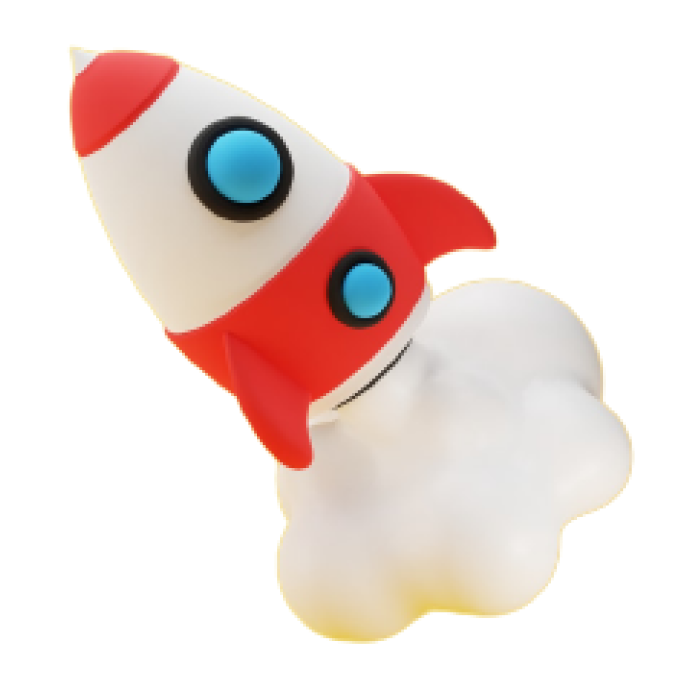
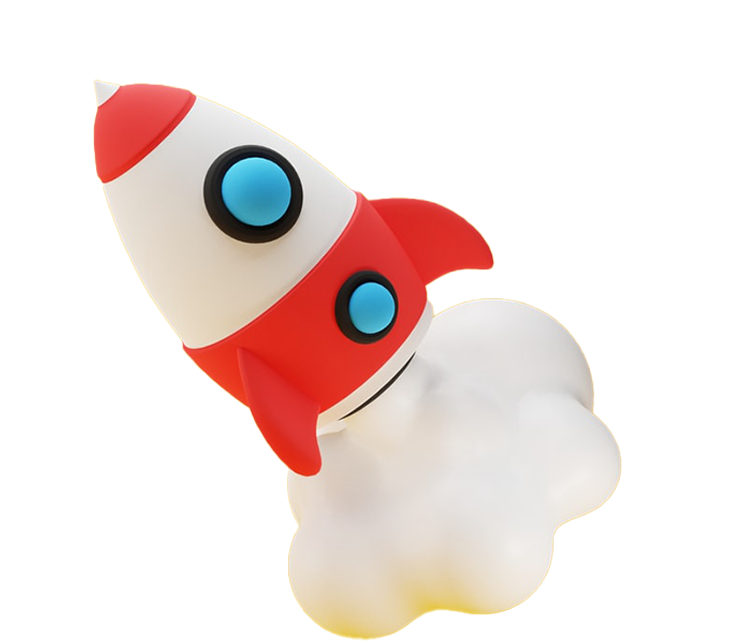
feat: add new image for each page hero

Changed region(s): [[0.0933, 0.0621, 0.9644, 0.9938], [0.1556, 0.3416, 0.1867, 0.4037]]

diff --git a/src/pages/home.tsx b/src/pages/home.tsx
@@ -57,7 +57,7 @@ function Home(): React.ReactNode {
       {/* <ModelWithContainer /> */}
       <PageHero image="/static/images/voxel-home.png" className="mb-8 md:mb-16" />
       <Hero
-        className="mb-8 md:mb-16"
+        className="mb-16 md:mb-24"
         image="/static/images/andy-with-bubbles.png"
         title={t<string>('home.intro.greeting')}
         subtitle={t<string>('home.intro.role')}
@@ -78,14 +78,14 @@ function Home(): React.ReactNode {
         )}
       />
 
-      <div className="container mx-auto mb-8 md:mb-16">
+      <div className="container mx-auto mb-16 md:mb-24">
         <Typography variant="h2" as="h1" className="text-center">Working on</Typography>
         <div className="text-center flex flex-row justify-center mb-8">
           <div className="w-6 mr-2"><YouTubeIcon /></div>
           <Typography variant="body">Video: How I build my WFH setups tour 2022</Typography>
         </div>
       </div>
-      <div className="container mx-auto mb-8 md:mb-16">
+      <div className="container mx-auto mb-16 md:mb-24">
         <LastProjects />
       </div>
       <div className="container mx-auto">

diff --git a/i18n/languages/en.js b/i18n/languages/en.js
@@ -44,7 +44,7 @@ const en = {
     project: {
       pageTitle: 'Projects',
       headline: 'Projects',
-      intro: 'There are some project I have participated.',
+      intro: 'There are some projects I have participated in.',
       title: 'Projects',
       description: 'This is part of the project I participated in, and there are some projects that I have not organized and listed.',
     },
@@ -79,7 +79,7 @@ const en = {
     about: {
       pageTitle: 'About me',
       headline: 'About',
-      description: 'Here is something about me',
+      description: 'Here are something about me',
       whoIsAndyTitle: 'Who\'s Andy',
       whoIsAndyDescription: 'My name is Andy Cao and I come from China 🇨🇳 \nI am a software developer👨💻 who focuses on building website and mobile apps 📱. I have serval hobbies with me for many years. Like RC hobby, FPV(flying drone in first person view), video editing and DIY. Currently My family and I living in Auckland, New Zealand 🇳🇿.',
       whatAndyDoTitle: 'What I do?',

diff --git a/src/components/organisms/blocks/SmallText.tsx b/src/components/organisms/blocks/SmallText.tsx
@@ -1,6 +1,7 @@
 /* eslint-disable @next/next/no-img-element */
 import { motion } from 'framer-motion';
 import Typography from '../../atoms/typography/Typography';
+import ImageComponent from '../../atoms/Image/Image';
 
 const containerVariant = {
   hidden: { opacity: 0, y: 100 },
@@ -33,7 +34,7 @@ function SmallText({
       className="w-full mb-20 mx-auto flex flex-col items-center justify-center"
     >
       {!!title && <div><Typography variant="h2">{title}</Typography></div>}
-      {!!image && <img className="my-6 rounded-2xl w-full mx-auto" src={image} alt={title} />}
+      {!!image && <ImageComponent className="my-6 rounded-2xl w-full mx-auto" src={image} alt={title} />}
       <div className="px-4">{description}</div>
     </motion.div>
   );

diff --git a/src/components/atoms/typography/Typography.tsx b/src/components/atoms/typography/Typography.tsx
@@ -36,7 +36,7 @@ const headVariant = {
   },
 };
 
-const basicStyle = 'text-on-background leading-tight';
+const basicStyle = 'text-on-background';
 
 const asMap = new Map<string, string>([
   ['h1', 'h1'],
@@ -52,7 +52,7 @@ const styleMap = new Map<string, string>([
   ['h2', 'text-[1.5rem] md:text-[1.85rem] font-bold mt-3 mb-3 tracking-tight'],
   ['h3', 'text-[1.35rem] md:text-[1.5rem] font-bold tracking-tight t mt-3 mb-3'],
   ['h4', 'text-base font-bold t leading-tight mt-2 mb-2 tracking-tight'],
-  ['body', 'text-base md:text-base t mt-1 mb-1 tracking-tight'],
+  ['body', 'text-base md:text-base t mt-1 mb-1 tracking-tight leading-6'],
   ['small', 'text-sm t mt-1 mb-1'],
 ]);
 

diff --git a/src/pages/about/index.tsx b/src/pages/about/index.tsx
@@ -10,7 +10,8 @@ export default function About() {
   return (
     <>
       <TabTitle pageTitle={t('about.pageTitle')} />
-      <PageHero image="/static/images/man-with-beard.png" />
+      <PageHero image="/static/images/andy-working-memoji.png" />
+      {/* <PageHero image="/static/images/about-andy-meditation.png" /> */}
       <div className="container mx-auto">
         <PageTitle title={t('about.headline')} description={t('about.description')} />
         {/* <div className="flex flex-col items-center justify-center">

diff --git a/src/pages/blog/index.tsx b/src/pages/blog/index.tsx
@@ -16,7 +16,7 @@ function Blog({ allPosts }) {
   return (
     <>
       <TabTitle pageTitle={t<string>('blog.pageTitle')} />
-      <PageHero image="/static/images/typewritter.png" />
+      <PageHero image="/static/images/blog-typewritter.png" />
       <div className="container mx-auto">
         {/* title and intro */}
         <PageTitle title={t<string>('blog.headline')} description={t<string>('blog.intro')} />

diff --git a/src/components/organisms/blocks/PageHero.tsx b/src/components/organisms/blocks/PageHero.tsx
@@ -41,7 +41,10 @@ function PageHero({
           <Image
             src={image}
             alt="hero image"
-            className="max-h-[600px]"
+            // className="max-h-50%"
+            style={{
+              maxHeight: '540px',
+            }}
           />
         )}
         {/* {children} */}
